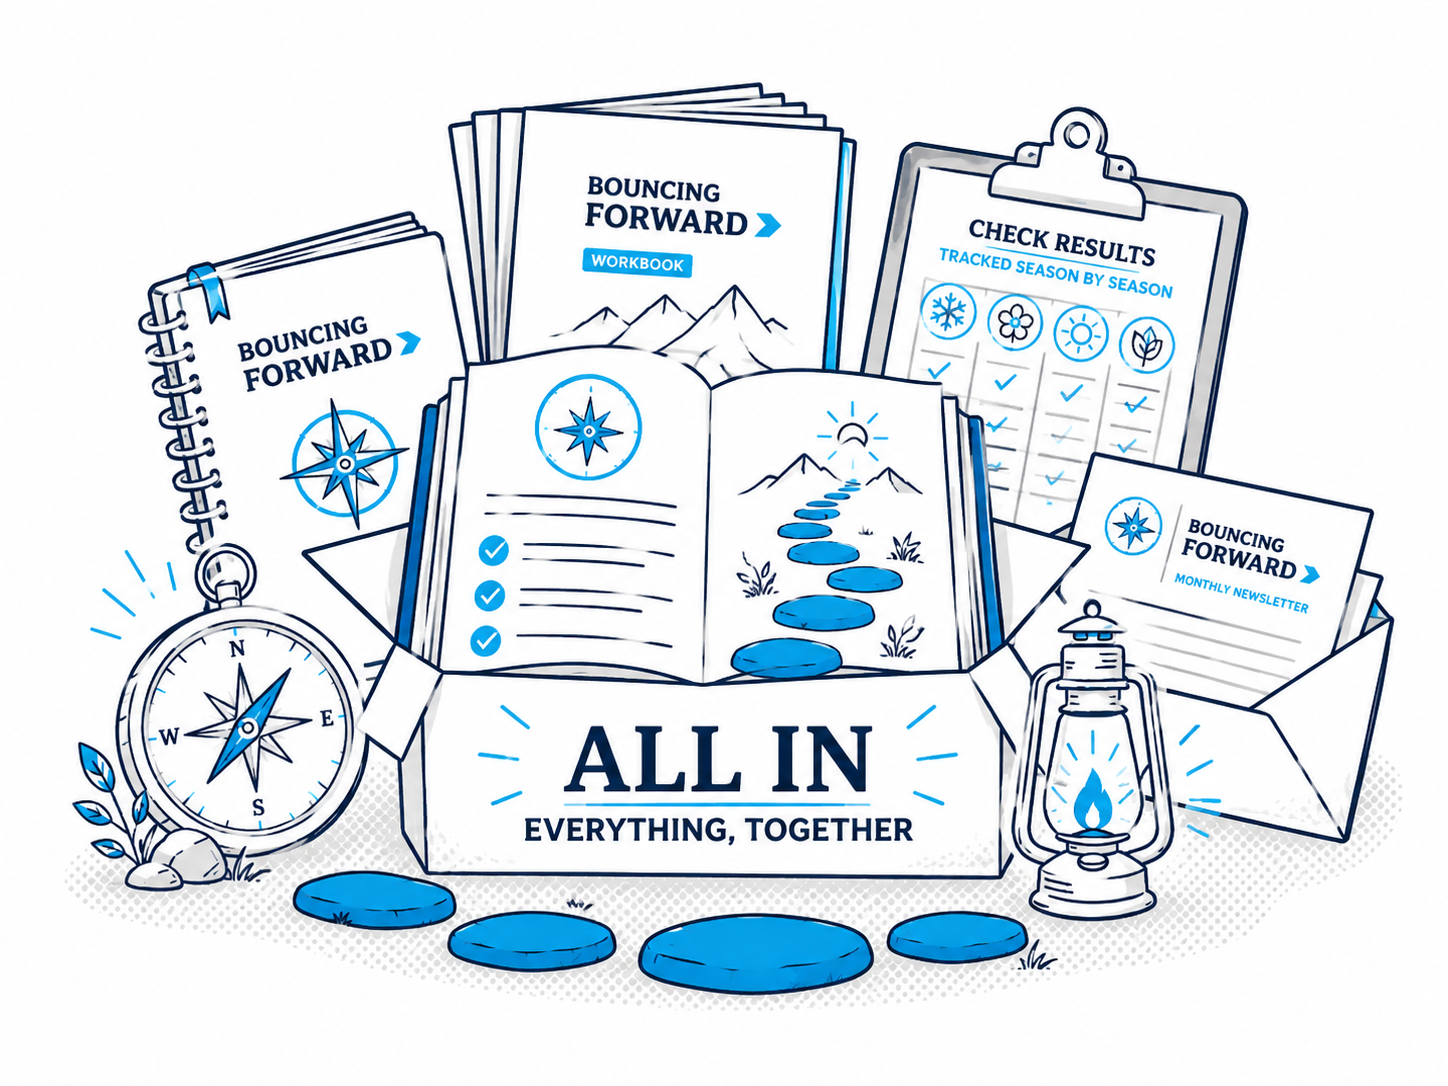
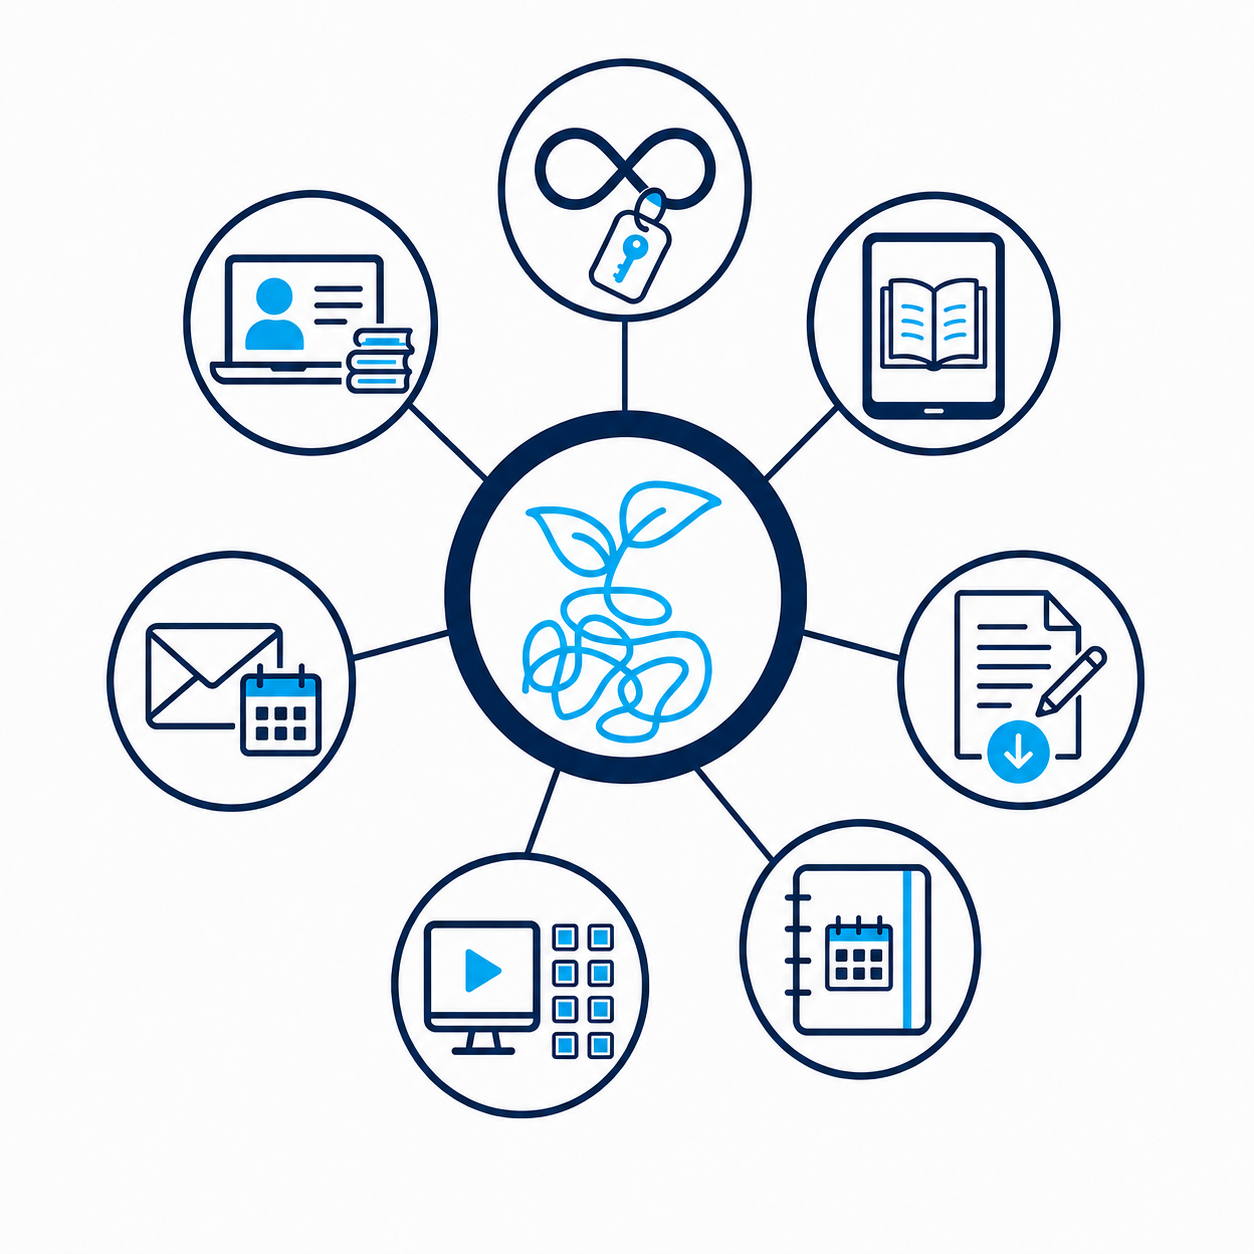
description

Changed region(s): [[0.0311, 0.0304, 0.9641, 0.942]]

diff --git a/src/app/all-in/page.tsx b/src/app/all-in/page.tsx
@@ -1,6 +1,6 @@
 import type { Metadata } from "next";
 import Image from "next/image";
-import { FadeIn, SlideUp } from "@/components/motion/primitives";
+import { FadeIn, SlideUp, Stagger, StaggerItem } from "@/components/motion/primitives";
 import {
   BeginYourCrossing,
   ExternalCta,
@@ -12,15 +12,53 @@ import { AMAZON_URL } from "@/lib/site";
 export const metadata: Metadata = {
   title: { absolute: "All In | The Complete Bouncing Forward Experience" },
   description:
-    "$49 for everything — a downloadable copy of the book, the full nine-module course, the 30-Day Journal, a premium monthly newsletter, and everything new we add.",
+    "$49, once, for everything — a downloadable copy of the book and workbook, the course, the 30-Day Journal, the Monthly Letter, the Webinar Library, and everything new as it lands.",
   openGraph: {
     title: "All In | The Complete Bouncing Forward Experience",
     description:
-      "$49 for everything — a downloadable copy of the book, the full nine-module course, the 30-Day Journal, a premium monthly newsletter, and everything new we add.",
+      "$49, once, for everything — a downloadable copy of the book and workbook, the course, the 30-Day Journal, the Monthly Letter, the Webinar Library, and everything new as it lands.",
   },
 };
 
 /* Copy source: BF-Website-Copy-For-Sozana-2.docx — All In (/all-in), verbatim. */
+
+const allInFeatures = [
+  {
+    title: "Lifetime membership",
+    body: "All In gives you lifetime access — no subscription, no annual membership renewal. Pay once and everything is yours, including new material as it’s added.",
+    img: "/assets/all-in/lifetime.png",
+  },
+  {
+    title: "The book (electronic edition)",
+    body: "Bouncing Forward, cover to cover — the full framework behind everything else in the package.",
+    img: "/assets/all-in/book.png",
+  },
+  {
+    title: "The workbook (electronic edition)",
+    body: "Structured exercises that walk alongside the book, chapter by chapter.",
+    img: "/assets/all-in/workbook.png",
+  },
+  {
+    title: "The 30-Day Journal",
+    body: "One page a day for a month. Small, steady prompts that help you find your footing.",
+    img: "/assets/all-in/journal.png",
+  },
+  {
+    title: "The Course",
+    body: "The course with downloadable worksheets for every module — and new course material added to your account as it lands.",
+    img: "/assets/all-in/course.png",
+  },
+  {
+    title: "The Monthly Letter from Maher",
+    body: "Written by Maher and delivered every month, exclusively to members. Practical tools you can put to work straight away. And every letter is stored for you, so when you need one again — this month’s or one from a year ago — it’s right where you left it.",
+    img: "/assets/all-in/monthly-letter.png",
+  },
+  {
+    title: "The Webinar Library",
+    body: "Free access to every Bouncing Forward webinar. Each one is stored in your member library, so you can return to any session whenever you need it.",
+    img: "/assets/all-in/webinar-library.png",
+  },
+];
 
 
 export default function AllInPage() {
@@ -46,16 +84,16 @@ export default function AllInPage() {
             <SlideUp delay={0.08}>
               <p className="mt-6 max-w-xl text-lg leading-relaxed">
                 All In is the complete Bouncing Forward experience — a
-                downloadable copy of the book, the full nine-module course, the
-                journal, and a premium monthly newsletter written for the hardest
-                seasons. One decision, $49, everything open — including
-                everything new we add to Bouncing Forward, as it lands.
+                downloadable copy of the book and workbook, the course, the
+                journal, and a monthly letter written for the hardest seasons.
+                One decision, $49, everything open — including everything new we
+                add to Bouncing Forward, as it lands.
               </p>
             </SlideUp>
             <SlideUp delay={0.16}>
               <div className="mt-8 flex flex-wrap gap-4">
                 <PrimaryCta href="#a-claim" label="Go All In — $49 →" />
-                <ExternalCta href={AMAZON_URL} label="Buy Just the Book — $14.45 →" />
+                <ExternalCta href={AMAZON_URL} label="Buy Just the Book — $17.95 →" />
               </div>
               <p className="mt-3 text-sm italic text-muted-foreground">
                 2nd edition coming soon.
@@ -88,100 +126,53 @@ export default function AllInPage() {
         </FadeIn>
       </section>
 
-      {/* ── The 30-Day Journal (#a-journal) ──────────────────── */}
+      {/* ── All In $49. Once. Yours for life. (#a-included) ──── */}
       <section className="bg-muted">
         <div
-          id="a-journal"
-          className="mx-auto max-w-7xl scroll-mt-24 px-5 py-16 sm:px-6 lg:px-8 sm:py-20 lg:py-24"
+          id="a-included"
+          className="mx-auto max-w-5xl scroll-mt-24 px-5 py-16 sm:px-6 lg:px-8 sm:py-20 lg:py-24"
         >
-          <div className="grid items-center gap-12 lg:grid-cols-2">
-            <div>
-              <SlideUp>
-                <p className="text-xs font-bold uppercase tracking-[0.08em] text-brand-accent-text">
-                  All In · Included
-                </p>
-                <h2 className="mt-3 text-3xl font-extrabold leading-tight sm:text-4xl">
-                  The 30-Day Journal
-                </h2>
-              </SlideUp>
-              <SlideUp delay={0.06}>
-                <p className="mt-6 text-lg leading-relaxed">
-                  Thirty days of guided reflection — one honest page at a time,
-                  each day with its own prompt and its own quote. Not homework.
-                  Company.
-                </p>
-              </SlideUp>
-            </div>
-            <FadeIn delay={0.1}>
-              <Image
-                src="/assets/all-in/journal-cover.png"
-                alt="The Bouncing Forward Personal Journal — 30 Days to Bounce Forward"
-                width={1055}
-                height={1491}
-                sizes="(min-width: 1024px) 40vw, 80vw"
-                className="mx-auto w-full max-w-xs rounded-xl shadow-lg"
-              />
-            </FadeIn>
-          </div>
-        </div>
-      </section>
-
-      {/* ── The Course + Monthly Letter (#a-course, #a-letter) ── */}
-      <section className="mx-auto max-w-7xl px-5 py-16 sm:px-6 lg:px-8 sm:py-20 lg:py-24">
-        <div className="grid gap-6 md:grid-cols-2">
           <SlideUp>
-            <div id="a-course" className="h-full scroll-mt-24 rounded-lg border border-border bg-card p-6 sm:p-8">
-              <p className="text-xs font-bold uppercase tracking-[0.08em] text-brand-accent-text">
-                All In · Included
-              </p>
-              <h2 className="mt-3 text-2xl font-bold leading-snug">
-                The Course
-              </h2>
-              <p className="mt-4 leading-relaxed text-muted-foreground">
-                The complete Bouncing Forward course — all nine guided modules
-                presenting the framework, the Compass and the Path, each with a
-                short video, a companion guide, and space to build your own plan.
-                Yours in full, included with All In.
-              </p>
-            </div>
-          </SlideUp>
-          <SlideUp delay={0.06}>
-            <div id="a-letter" className="h-full scroll-mt-24 rounded-lg border border-border bg-card p-6 sm:p-8">
-              <p className="text-xs font-bold uppercase tracking-[0.08em] text-brand-accent-text">
-                All In · Included
-              </p>
-              <h2 className="mt-3 text-2xl font-bold leading-snug">
-                The Monthly Letter
-              </h2>
-              <p className="mt-4 leading-relaxed text-muted-foreground">
-                A special monthly newsletter, for members only — on bouncing
-                forward from your hardest season. Longer and closer than the
-                public note: one honest theme each month, written for wherever
-                this season finds you.
-              </p>
-            </div>
-          </SlideUp>
-        </div>
-      </section>
-
-      {/* ── Everything New, as It Lands ──────────────────────── */}
-      <section className="bg-muted">
-        <div className="mx-auto max-w-3xl px-5 py-16 sm:px-6 lg:px-8 sm:py-20 lg:py-24">
-          <SlideUp>
-            <p className="text-xs font-bold uppercase tracking-[0.08em] text-brand-accent-text">
-              All In · Included
-            </p>
-            <h2 className="mt-3 text-3xl font-extrabold leading-tight sm:text-4xl">
-              Everything New, as It Lands
+            <h2 className="text-3xl font-extrabold leading-tight sm:text-4xl">
+              All In — $49. Once. Yours for life.
             </h2>
-          </SlideUp>
-          <SlideUp delay={0.06}>
-            <p className="mt-6 text-lg leading-relaxed">
-              Bouncing Forward keeps growing — new tools, new resources, new ways
-              through. Whatever we add next is already yours. Going all in means
-              never buying it twice.
+            <p className="mt-4 text-lg leading-relaxed text-muted-foreground">
+              All In gives you lifetime access — no annual membership renewal.
+            </p>
+            <p className="mt-8 font-[family-name:var(--font-display)] text-sm font-bold uppercase tracking-[0.08em] text-brand-accent-text">
+              Everything in Free, plus:
             </p>
           </SlideUp>
+
+          <Stagger className="mt-8 space-y-6">
+            {allInFeatures.map((f) => (
+              <StaggerItem key={f.title}>
+                <div className="grid gap-5 rounded-lg border border-border bg-card p-6 sm:grid-cols-[160px_1fr] sm:items-center sm:gap-8 sm:p-8">
+                  <div className="relative w-full overflow-hidden rounded-md bg-muted pb-[75%] sm:pb-[100%]">
+                    <Image
+                      src={f.img}
+                      alt={f.title}
+                      fill
+                      sizes="(min-width: 640px) 160px, 90vw"
+                      className="absolute inset-0 h-full w-full object-cover"
+                    />
+                  </div>
+                  <div>
+                    <h3 className="text-xl font-bold">{f.title}</h3>
+                    <p className="mt-2 leading-relaxed text-muted-foreground">
+                      {f.body}
+                    </p>
+                  </div>
+                </div>
+              </StaggerItem>
+            ))}
+          </Stagger>
+
+          <FadeIn>
+            <div className="mt-10">
+              <PrimaryCta href="#a-claim" label="Go All In — $49" />
+            </div>
+          </FadeIn>
         </div>
       </section>
 
@@ -211,7 +202,7 @@ export default function AllInPage() {
             <div className="mt-8">
               <ExternalCta
                 href={AMAZON_URL}
-                label="Prefer to start with just the book? Buy on Amazon — $14.45 →"
+                label="Prefer to start with just the book? Buy on Amazon — $17.95 →"
                 invert
               />
             </div>

diff --git a/src/app/page.tsx b/src/app/page.tsx
@@ -65,13 +65,14 @@ const freeIncludes = [
   "The book’s first chapter.",
 ];
 const allInIncludes = [
-  "Everything that’s free.",
-  "The electronic book.",
-  "The full course.",
-  "The 30-Day Journal, yours to download.",
-  "A letter from Maher every month.",
-  "Every new tool we launch.",
   "Lifetime membership.",
+  "Everything that’s free.",
+  "The book.",
+  "The workbook.",
+  "The 30-Day Journal.",
+  "The course.",
+  "The Monthly Letter.",
+  "The Webinar Library.",
 ];
 
 export default function HomePage() {

diff --git a/src/lib/site.ts b/src/lib/site.ts
@@ -57,9 +57,7 @@ export const NAV_ITEMS: NavItem[] = [
     href: "/all-in",
     children: [
       { href: "/all-in#a-inside", label: "What’s Inside" },
-      { href: "/all-in#a-journal", label: "The 30-Day Journal" },
-      { href: "/all-in#a-course", label: "The Course" },
-      { href: "/all-in#a-letter", label: "The Monthly Letter" },
+      { href: "/all-in#a-included", label: "What’s Included" },
       { href: "/all-in#a-claim", label: "Claim Your Access" },
     ],
   },
